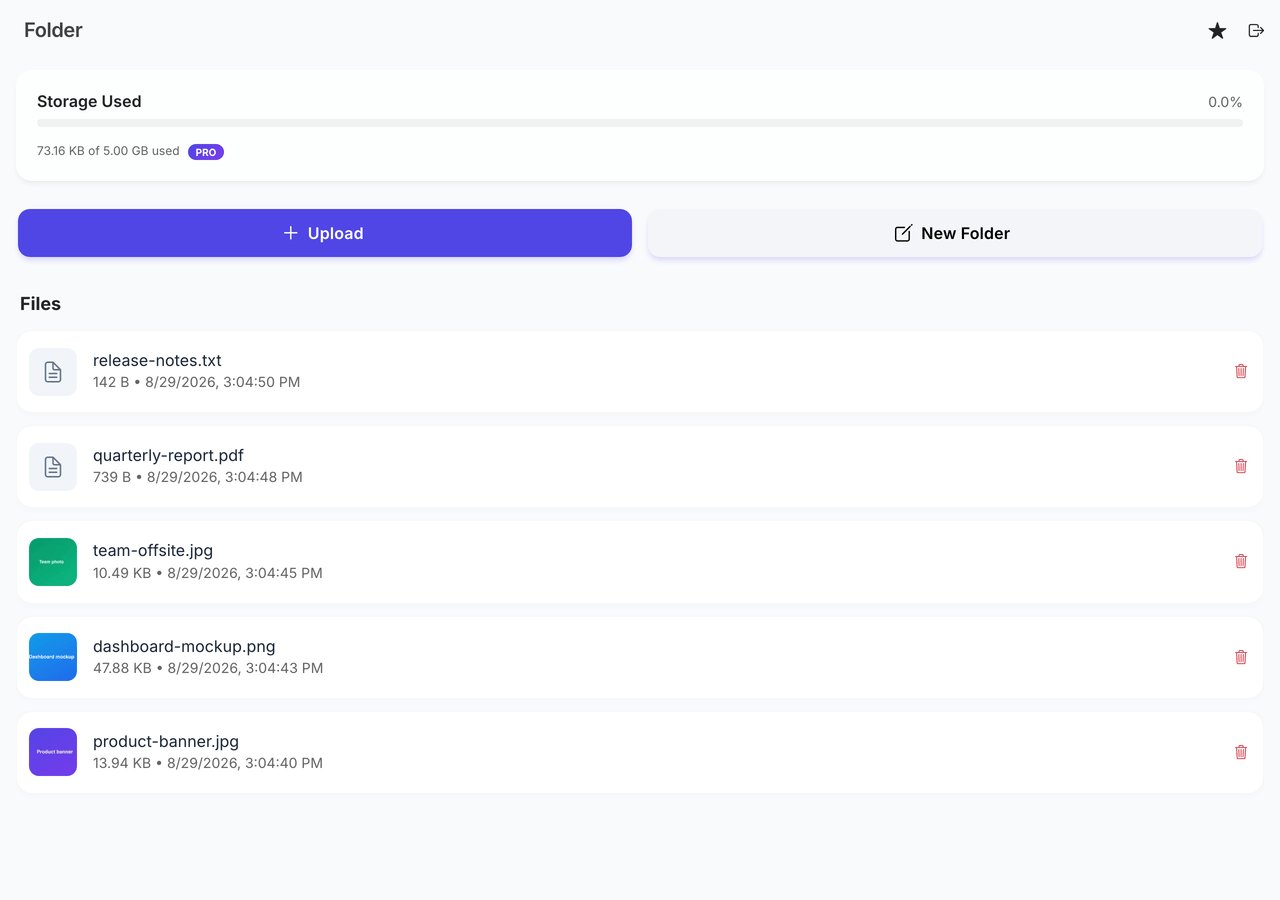
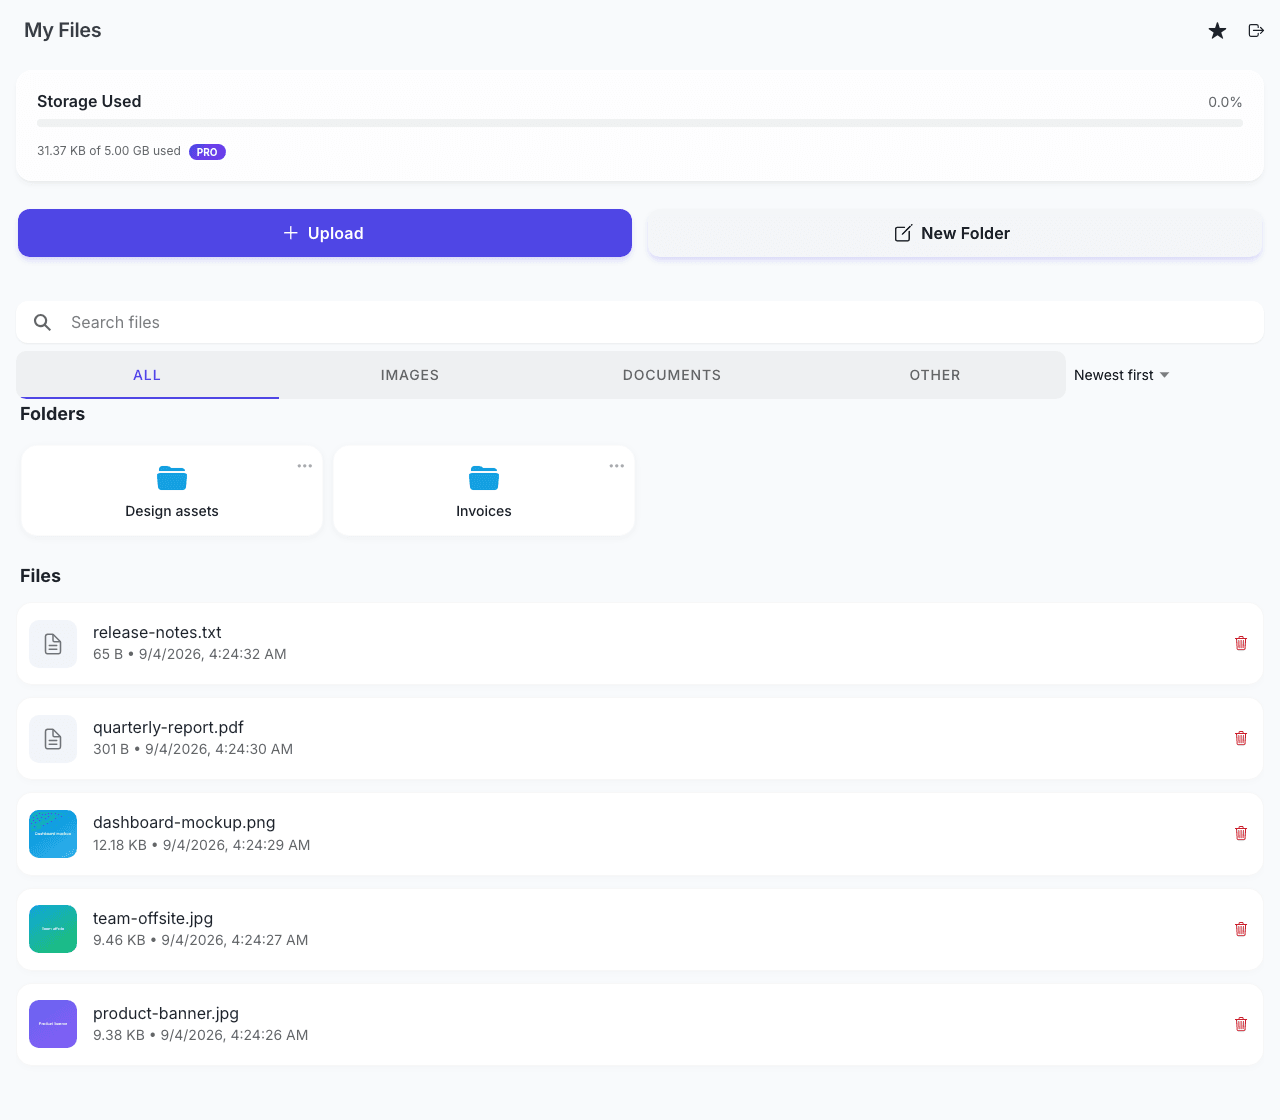
chore(release): finish the 4.0.0 entry and re-shoot what it changed
The 4.0.0 entry was written on 2 September, and four branches landed after it:
search with sorting and a type filter, nested folders with a breadcrumb path,
multi-file upload with drag and drop, and the offline mutation queue. None of
them reached the changelog, the feature list, or a single screenshot, and no
v4.0.0 tag was ever cut — so anyone reading the repository the way repositories
are read saw the app as it stood on 29 August.

The entry now covers all four and carries the date it is actually released on.
The README says what the app does today rather than a week ago.

The frames are re-shot from a throwaway Pro account through the real forms, and
pointed at Supabase Storage on purpose: images would otherwise land in
Cloudinary, which the cleanup does not reach, and a screenshot session would
leave five files in a production account forever. Four frames: the dashboard
with search, filters and folders; the upload page with five files queued and the
provider picker; the same dashboard on a phone; and a new one for the offline
queue — the file already gone from the list, the banner saying the deletion has
not reached the server yet.

Fixes the title bar on the way past: it read "Folder" at the root, where there
is no folder to name, in every phone-width header and in the hero screenshot.

diff --git a/src/pages/Dashboard.tsx b/src/pages/Dashboard.tsx
@@ -287,7 +287,10 @@ const Dashboard: React.FC = () => {
               </IonButton>
             )}
           </IonButtons>
-          <IonTitle>{folderId && currentFolder ? currentFolder.name : 'Folder'}</IonTitle>
+          {/* At the root you are not inside a folder, and the bar said "Folder"
+              anyway — on the dashboard, in the mobile header, and in the hero
+              screenshot of the README. */}
+          <IonTitle>{folderId && currentFolder ? currentFolder.name : 'My Files'}</IonTitle>
           <IonButtons slot="end">
             {/* The only permanent way into billing: UpgradeBanner appears at
                 80% usage, so without this a user could not reach the plans at

diff --git a/README.md b/README.md
@@ -60,10 +60,10 @@ Cloud Storage App is a full-featured cloud file storage that allows users to:
 ## 📸 Screenshots
 
 <p align="center">
-  <img src="docs/screenshots/dashboard.png" alt="Dashboard with the storage meter, the Pro badge and a list of files" width="820">
+  <img src="docs/screenshots/dashboard.png" alt="Dashboard with the storage meter, the Pro badge, a search box, filters by type, folders and a list of files" width="820">
 </p>
 
-| Upload — Pro users pick the backend                                                                                                                              | Plans — Stripe in test mode                                                                           |
+| Upload — several files at once, and Pro users pick the backend                                                                                                                              | Plans — Stripe in test mode                                                                           |
 | ---------------------------------------------------------------------------------------------------------------------------------------------------------------- | ----------------------------------------------------------------------------------------------------- |
 | <img src="docs/screenshots/upload.png" alt="Upload screen with a provider picker: Auto, Cloudinary, Cloudflare R2, Supabase, Google Drive, Dropbox" width="420"> | <img src="docs/screenshots/pricing.png" alt="Free and Pro plans with a demo mode notice" width="420"> |
 
@@ -75,6 +75,14 @@ Share links are listed on the file they belong to, with their state and a way to
 
 <p align="center">
   <img src="docs/screenshots/share-links.png" alt="Share links panel showing an active link with its creation and expiry dates and a revoke button" width="820">
+</p>
+
+A change made with no network is written down rather than lost. The file is
+already gone from the list — the queue is applied over the cached listing at
+render — and the banner says the deletion has not reached the server yet:
+
+<p align="center">
+  <img src="docs/screenshots/offline-queue.png" alt="Dashboard offline: a banner reading one change waiting for the network with a Try now button, and the deleted file already absent from the list" width="820">
 </p>
 
 <p align="center">
@@ -93,11 +101,16 @@ Share links are listed on the file they belong to, with their state and a way to
 
 ### 📁 File Management
 
-- ✅ File upload with progress indicator
-- ✅ User file list view
+- ✅ Several files at once — picked or dropped onto the page — uploaded one after
+  another, with progress per file and a failure that stops that file rather than the queue
+- ✅ Search by name, six orderings and a filter by type. All three change the
+  query, not the fifteen rows already on screen
+- ✅ Nested folders with a breadcrumb path back to any level; folders can be renamed and deleted
 - ✅ PDF and image preview
-- ✅ File deletion (with full removal from Cloudinary)
-- ✅ File renaming
+- ✅ File renaming and deletion — removed from the provider, not just from the list
+- ✅ **Renames and deletions survive being offline.** The change is written to
+  IndexedDB, applied to the screen immediately, and sent when the connection
+  returns — coalesced, retried, and reported if it is finally refused
 - ✅ Metadata display (size, upload date, type)
 
 ### 💾 Storage
@@ -146,7 +159,9 @@ Share links are listed on the file they belong to, with their state and a way to
 ### 📱 Platforms
 
 - ✅ **Web** — works in any modern browser
-- ✅ **PWA** — can be installed as an app on phone/computer (Service Worker + offline support)
+- ✅ **PWA** — installable on phone or computer. Offline it serves the shell and
+  the last listing _and_ accepts renames and deletions, which wait in IndexedDB
+  until the network comes back
 - ✅ **iOS/Android** — native app support via Capacitor
 
 > 📱 **PWA Ready!** Install the app on your device: [Testing Guide](PWA_TESTING.md)
@@ -765,9 +780,10 @@ money and quota** has a test:
   into the bundle. Two implementations can drift; each side is tested.
 
 Pages are left to Playwright rather than jsdom: `e2e/` opens a throwaway
-account per test and drives the real file lifecycle, share links, quota and
-folder scoping against a live Supabase project. Rendering a page in jsdom
-proves the markup exists; it does not prove an upload works.
+account per test and drives the real file lifecycle, share links, quota, folder
+navigation, search, a multi-file upload and the offline queue against a live
+Supabase project. Rendering a page in jsdom proves the markup exists; it does
+not prove an upload works.
 
 ## 🔍 Postmortem: the `anon` key that was named `SUPABASE_SERVICE_ROLE_KEY`
 

diff --git a/CHANGELOG.md b/CHANGELOG.md
@@ -12,7 +12,7 @@ reasoning behind the larger decisions lives in
 
 Nothing yet.
 
-## [4.0.0] — 2026-09-02
+## [4.0.0] — 2026-09-04
 
 ### Added
 
@@ -21,6 +21,38 @@ Nothing yet.
   sweeps it after 24 hours. It is a real account — same RLS, same quota, same
   Stripe test-mode checkout — because a demo on a different code path stops
   proving anything.
+- **A way to find a file.** A search box, six orderings and a filter by type,
+  every one of which changes the query rather than the page already on screen —
+  the dashboard loads fifteen rows at a time, so a filter applied in the browser
+  would search whatever happened to be loaded. Search terms are escaped for
+  `ilike`: `%` and `_` are wildcards, so looking for `report_final.pdf` also
+  found `reportXfinal.pdf`, and looking for `50%` found everything.
+- **Folders that can be walked.** `folders.parent_id` has been in the schema
+  since migration `000` and nothing in the interface used it: there was one back
+  arrow, and from two levels down it went to the root rather than to the folder
+  above. There is now a breadcrumb path, real nesting, and rename and delete on
+  a folder — `deleteFolder` had been sitting in the service without a button.
+- **Several files at once, by picker or by drop.** The upload page queues a
+  selection and works through it a file at a time, with progress per file, and a
+  failure stops that file rather than the queue. The same file picked twice is
+  skipped: identity is name, size and last-modified date, because the picker
+  hands back a new `File` object every time and uploading the same bytes twice
+  costs the quota twice. The queue's state lives outside React, which is what
+  makes those rules testable without mounting anything.
+- **Changes made offline are kept.** The app was half a PWA: the service worker
+  served the shell and the last listing, so someone offline could look at their
+  files and do nothing to them — a rename on a train failed with a network error
+  and lost the new name. Renaming and deleting a file or a folder now goes to
+  IndexedDB, shows on screen at once, and is sent when the connection returns.
+  The queue is coalesced first (three renames of one file are one rename; a
+  rename followed by a delete is only the delete), retried three times, and what
+  it finally gives up on is reported rather than quietly dropped. Uploads and
+  folder creation are deliberately not queued — the bytes are solved by
+  resumable uploads, and a folder's id comes from the database, so anything
+  queued against one created offline would have nothing to point at. The
+  TanStack cache is not edited either: the queue is applied over it at render,
+  so the cache stays a truthful snapshot of the server and the queue stays the
+  record of what has not reached it.
 - **Rate limits on every route that mints something.** `/api/share`,
   `/api/r2/presign-upload` and `/api/cloudinary/*` count requests per account
   after the token check and per address before it, and answer `429` with
@@ -37,8 +69,10 @@ Nothing yet.
   `src/` with a note saying Playwright covered the pages; it did not.
 - **E2E tests that touch the product**, not only its shell: the file lifecycle,
   a share link opened by an anonymous second browser context, quota refusals,
-  folder scoping and the demo entry point. Every test gets its own account from
-  a fixture rather than sharing one.
+  folder scoping and navigation, search, a multi-file upload, the offline queue
+  and the demo entry point. Every test gets its own account from a fixture
+  rather than sharing one, which is also what let the CI run go back to four
+  workers.
 - **Resumable uploads.** A file over 16 MB goes to R2 in parts, each retried on
   its own, and can be paused and picked up again — including after a reload, a
   crash or a lost connection. The ETags and the file itself are kept in
@@ -117,6 +151,9 @@ Nothing yet.
   4.5:1 that text needs), links distinguished by colour alone, and no meta
   description. Found by the first Lighthouse run, which scored the terms page
   84 for accessibility; all three pages now score 100.
+- The dashboard's title bar said "Folder" at the root, where there is no folder
+  to name. It says "My Files" — visible on every phone-width header and in the
+  README's own hero screenshot.
 
 ### Security
 
